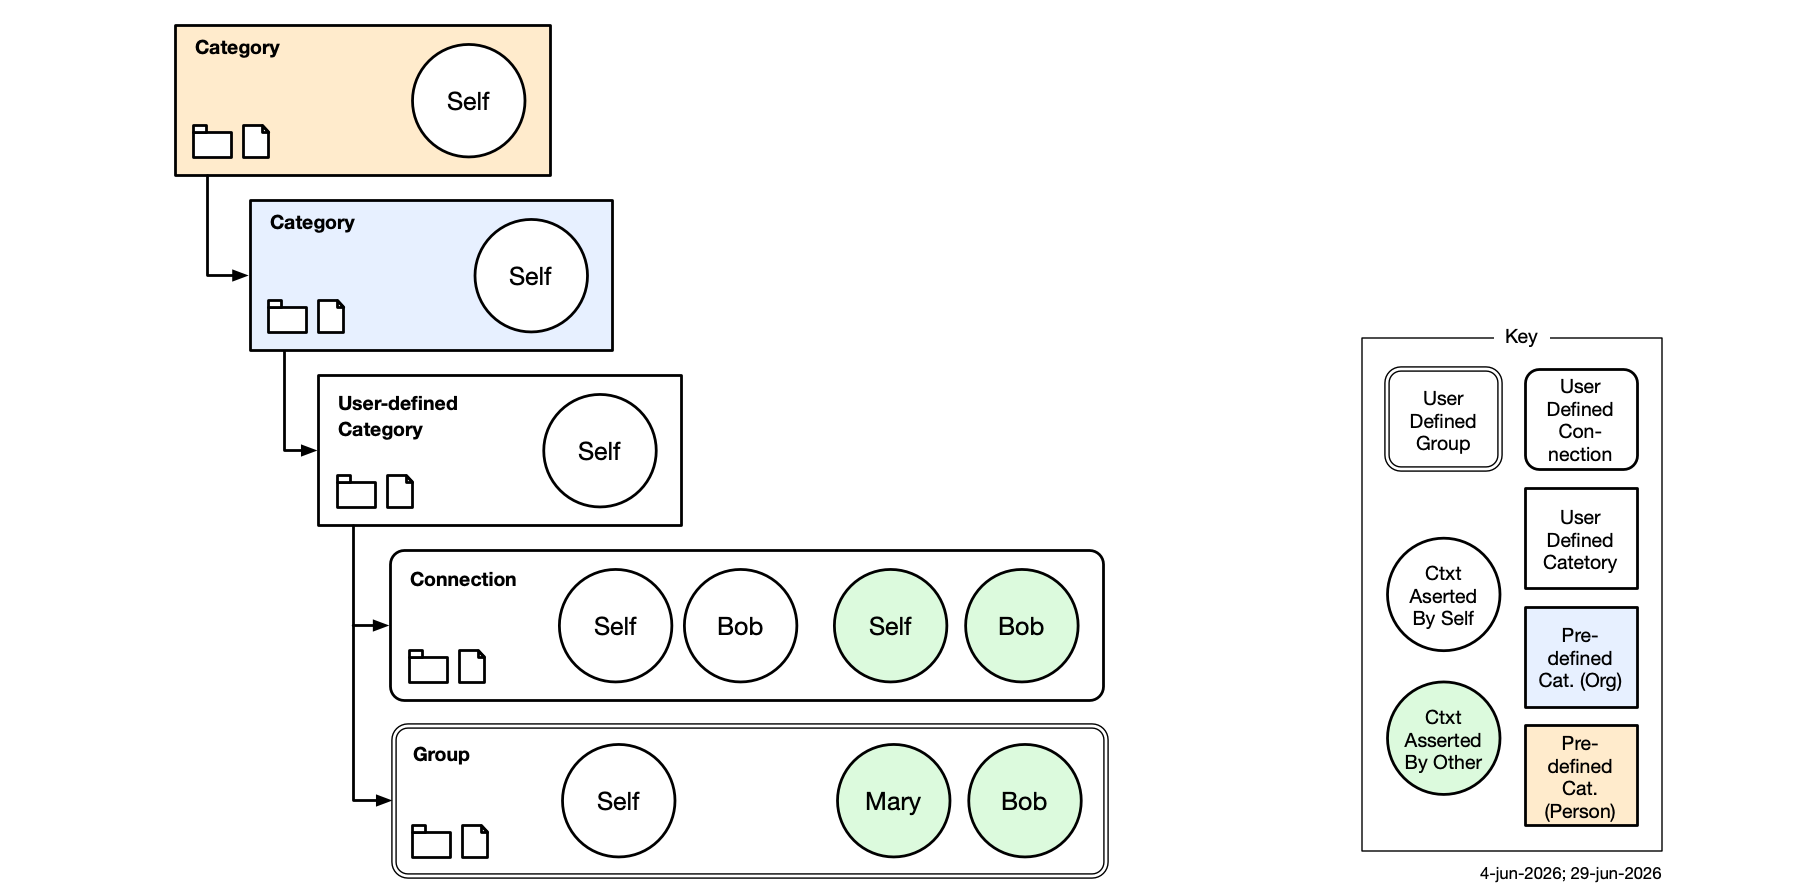
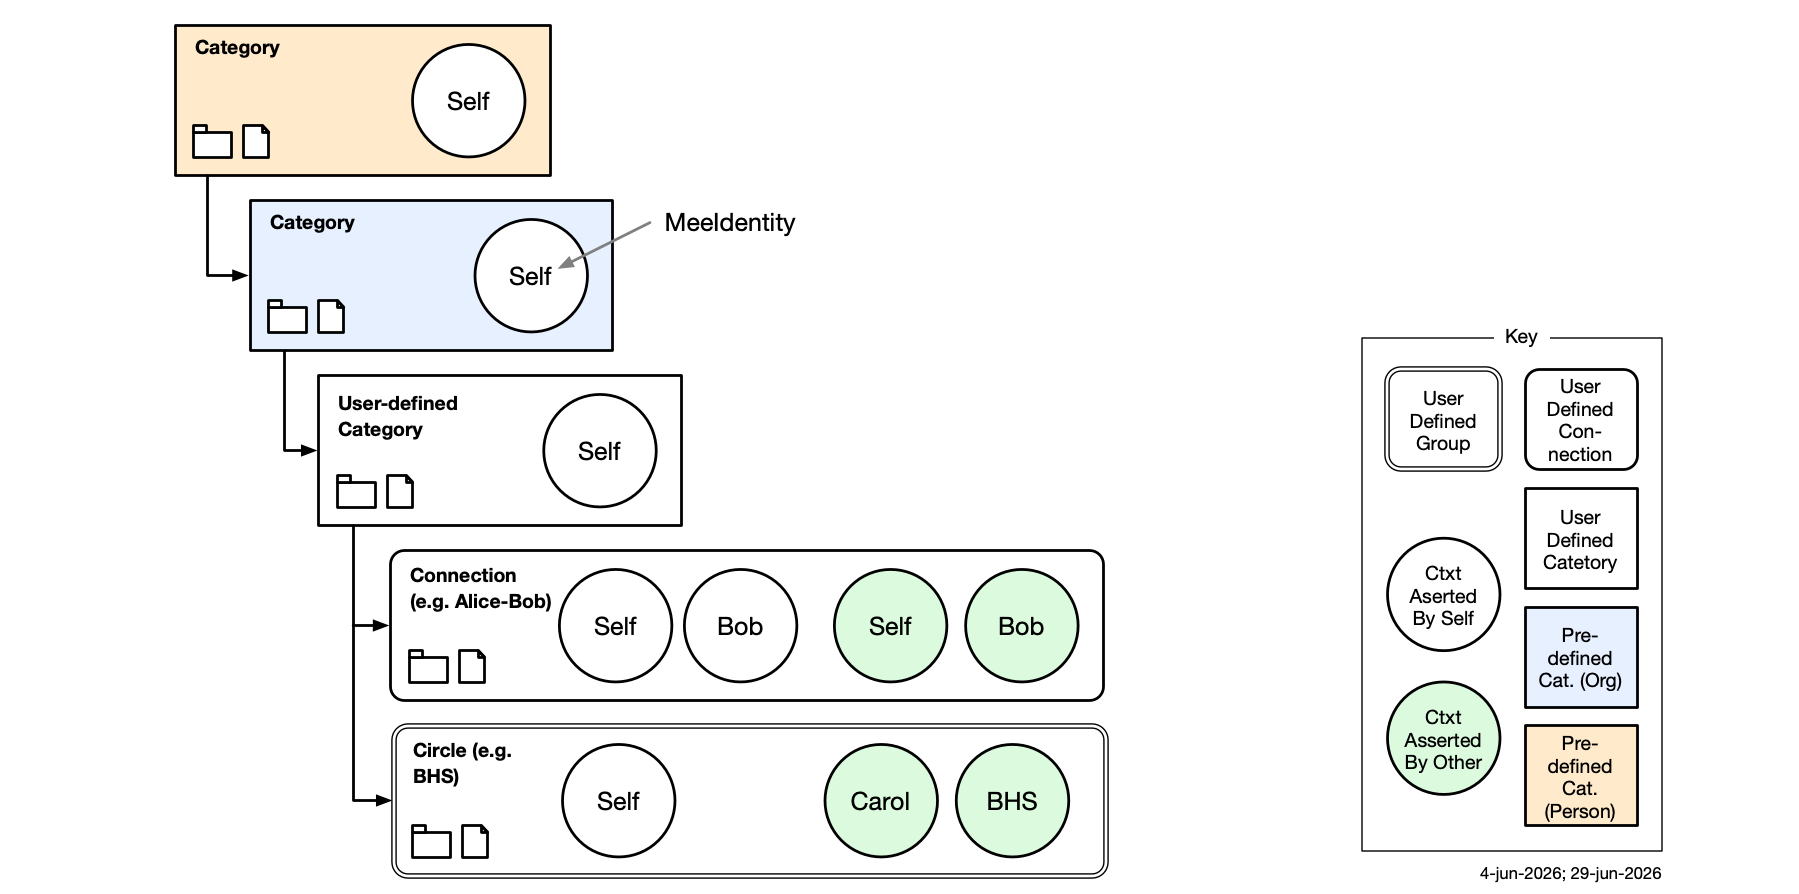
image tweaks

diff --git a/README.md b/README.md
@@ -49,10 +49,10 @@ The description of the context container itself is carried in the DataBook's YAM
 - `mia.about-by` — classifies a context DataBook by the combination of subject and assertedBy; one of `context:SBScontext` (subject=Self, assertedBy=Self), `context:OBScontext` (subject=Other, assertedBy=Self), `context:OBOcontext` (subject=Other, assertedBy=Other), or `context:SBOcontext` (subject=Self, assertedBy=Other).
 
 
-**`c:category`** — containing category. Its value is the IRI of a the category DataBook (e.g. `"http://www.example.org/mia/categories/bob-johnson(people)"`) that links to it via sbs, obs, sbo, or obo.
+**`c:category`** — containing category. Its value is the IRI of the category DataBook (e.g. `"http://www.example.org/mia/categories/bob-johnson(people)"`) that references it via `c:sbs`, `c:obs`, `c:sbo`, or `c:obo` links of the category.
 
 **`c:assertedBy`** — Who is making the assertion. Values are local IRIs of `p:Person`, `g:Group`, or `o:Organization` individuals:
-- `:Self` — the Mia user is recording the data, even if the underlying information originates from some other party such as a company, government agency, or another person.
+- `:Self` — the Mia user that is entering the data, even if the underlying information originates from some other party such as a company, government agency, or another person.
 - a named individual of `p:Person` — another Mia user is asserting the data directly.
 - a named individual of `g:Group` — a group of Mia users is asserting the data.
 - a named individual of `o:Organization` — an organization is asserting the data directly.